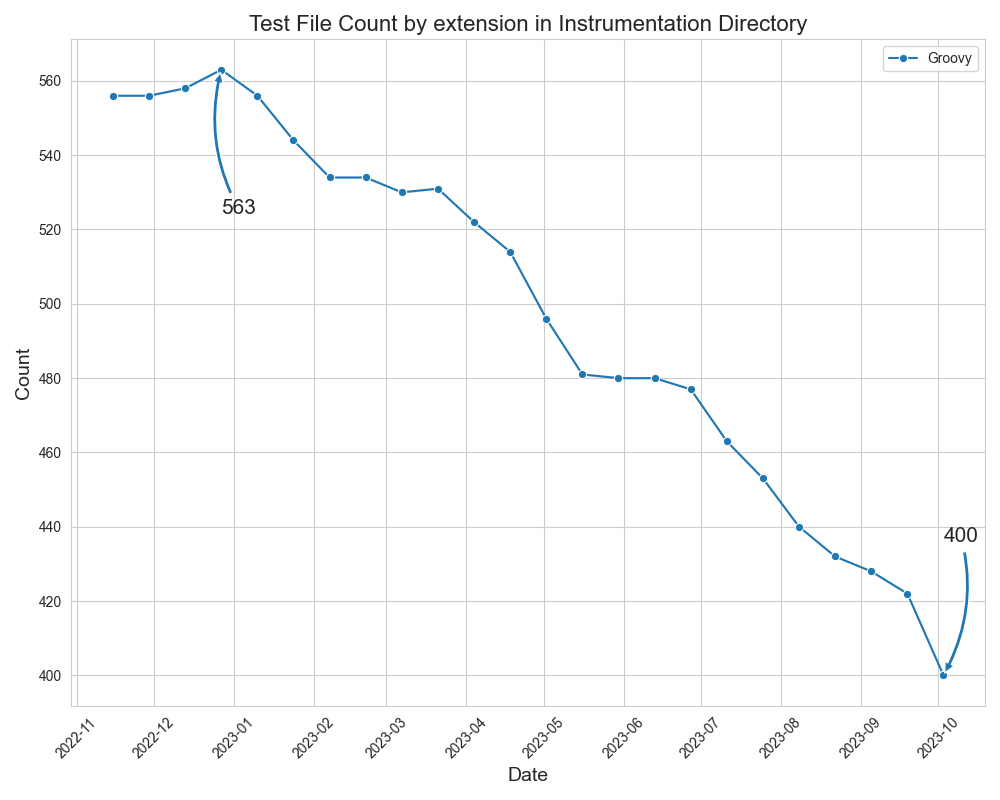
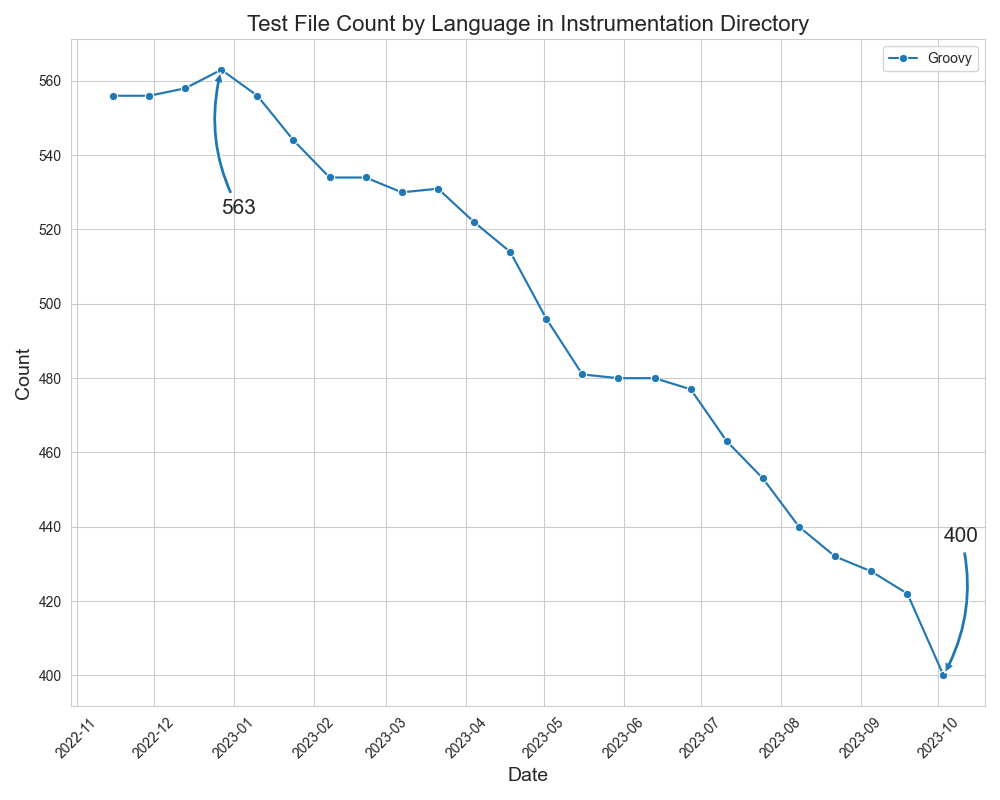
small fixes for displaying chart (#9)

Changed region(s): [[0.248, 0.0, 0.806, 0.0625]]

diff --git a/main.py b/main.py
@@ -122,15 +122,16 @@ def main(args):
 
     plt.xlabel('Date', fontsize=14)
     plt.ylabel('Count', fontsize=14)
-    plt.title('Test File Count by extension in Instrumentation Directory', fontsize=16)
+    plt.title('Test File Count by Language in Instrumentation Directory', fontsize=16)
     plt.xticks(rotation=45)
 
     plt.legend()
     plt.tight_layout()
 
-    if len(args.output) > 0:
+    if args.output is not None:
         plt.savefig(args.output)
-    plt.draw()
+    else:
+        plt.show()
 
 
 if __name__ == '__main__':
